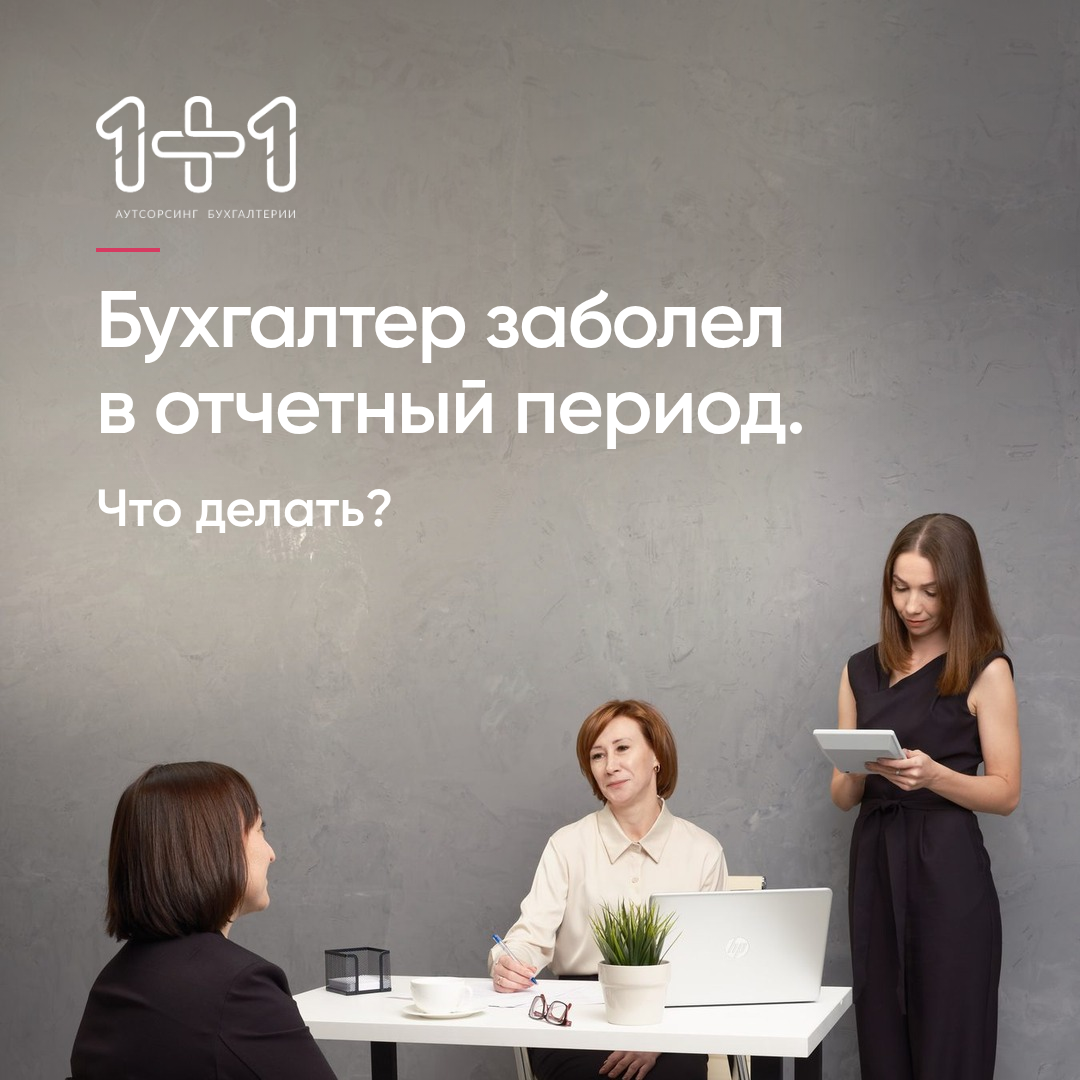
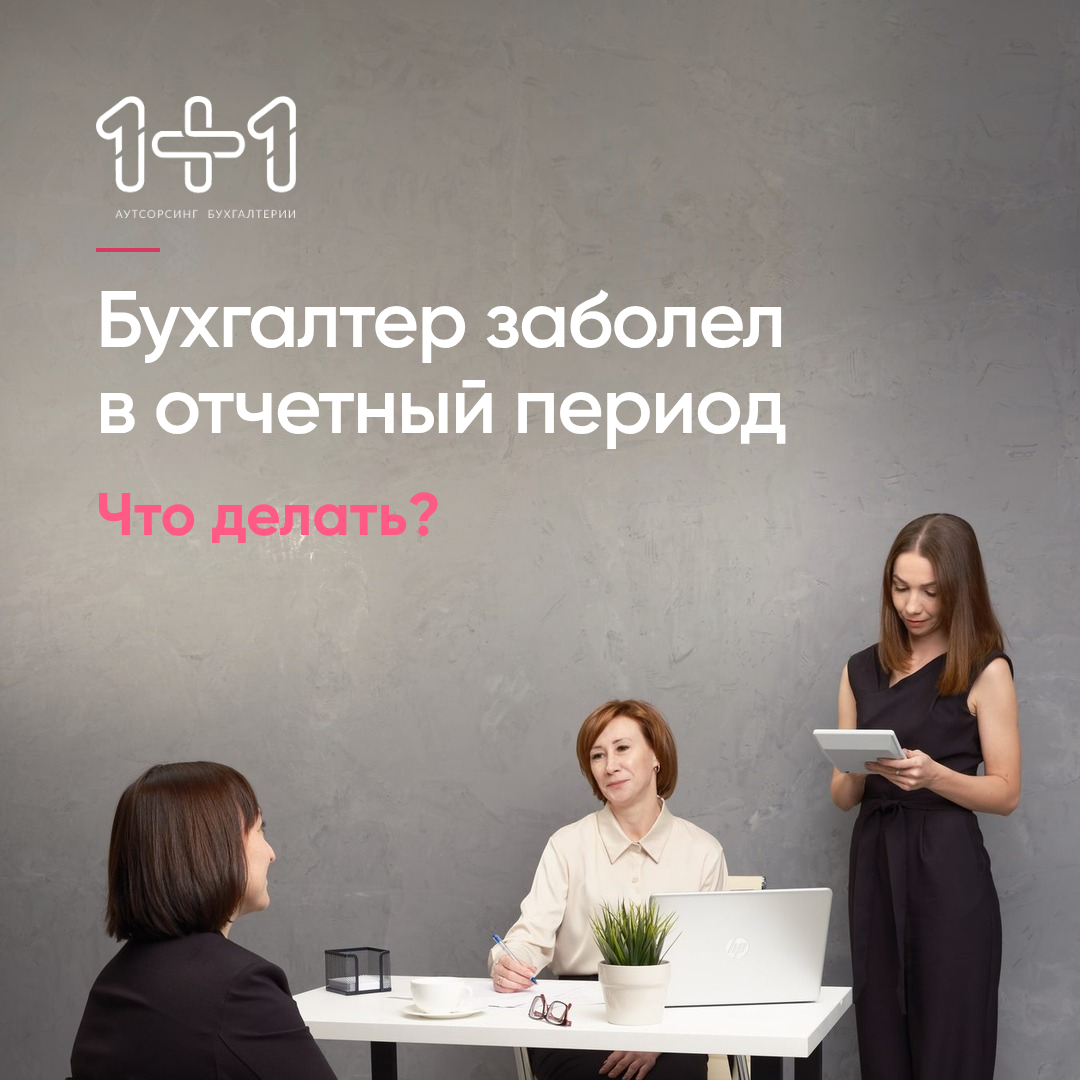
Sick-accountant layout: no full stop, bright pink question; darker option
Claude-Session: https://claude.ai/code/session_01VZ7Hrkur6jxoGp5f6QSiLJ

Changed region(s): [[0.0917, 0.4583, 0.4278, 0.5194]]

diff --git a/specimens/work/sick-a.html b/specimens/work/sick-a.html
@@ -3,10 +3,10 @@
 .canvas{background:url(../img/tax-bg.jpg) center/cover;color:#fff}
 .shade{position:absolute;inset:0;background:linear-gradient(to bottom,rgba(28,26,23,.34) 0,rgba(28,26,23,0) 48%)}
 .h-80{font-weight:600;font-size:80px;line-height:1.08;letter-spacing:-.02em}
-.q{margin-top:26px;font-weight:600;font-size:52px;line-height:1.2}
+.q{margin-top:28px;font-weight:700;font-size:60px;line-height:1.2;color:#FF5A86}
 </style></head><body>
 <div class="canvas dark"><div class="shade"></div>
 <img class="logo" src="../../assets/logo-full-white.png" alt="">
 <div class="text-top"><div class="dash"></div>
-<div class="h-80">Бухгалтер заболел<br>в&nbsp;отчетный период.</div>
+<div class="h-80">Бухгалтер заболел<br>в&nbsp;отчетный период</div>
 <p class="q">Что делать?</p></div></div></body></html>

diff --git a/specimens/work/sick-a2.html b/specimens/work/sick-a2.html
@@ -1,0 +1,12 @@
+<!doctype html><html lang="ru"><head><meta charset="utf-8"><title>Вариант А</title><link rel="stylesheet" href="../base.css">
+<style>
+.canvas{background:url(../img/tax-bg.jpg) center/cover;color:#fff}
+.shade{position:absolute;inset:0;background:linear-gradient(to bottom,rgba(24,22,20,.62) 0,rgba(24,22,20,.50) 40%,rgba(24,22,20,0) 68%)}
+.h-80{font-weight:600;font-size:80px;line-height:1.08;letter-spacing:-.02em}
+.q{margin-top:28px;font-weight:700;font-size:60px;line-height:1.2;color:#FF6B93}
+</style></head><body>
+<div class="canvas dark"><div class="shade"></div>
+<img class="logo" src="../../assets/logo-full-white.png" alt="">
+<div class="text-top"><div class="dash"></div>
+<div class="h-80">Бухгалтер заболел<br>в&nbsp;отчетный период</div>
+<p class="q">Что делать?</p></div></div></body></html>
